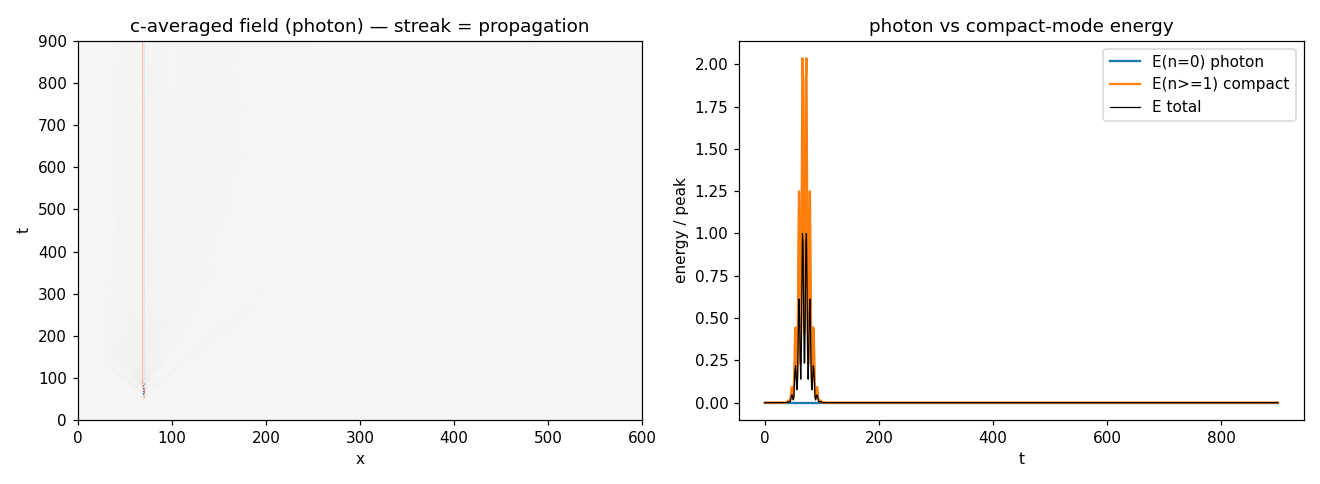
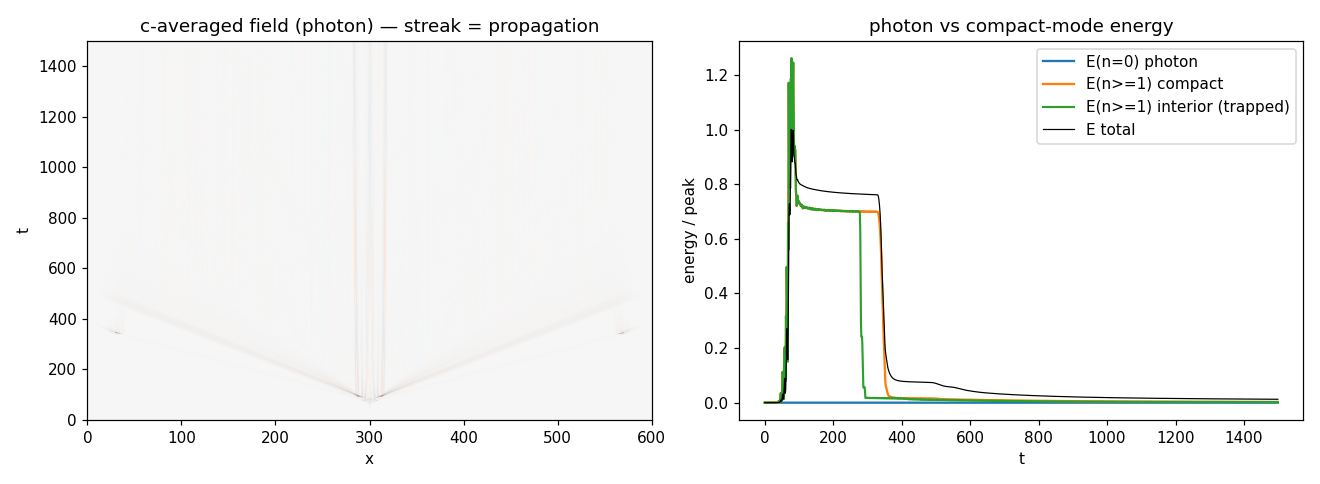
Test various configurations

diff --git a/projects/grid-saturation/scripts/cylinder.py b/projects/grid-saturation/scripts/cylinder.py
@@ -123,7 +123,16 @@ def run(args):
     ac_x_last = np.zeros(nx)
     for t in range(args.steps):
         T = inn.sum(axis=0)
-        out = (2.0 / N) * T[None, :, :] - inn         # scatter, all dirs
+        if args.focus > 0.0:
+            # FOCUSING nonlinearity (opposite sign to clip): high-intensity nodes
+            # transmit LESS (reflect more), so energy piles up locally -- Kerr-like
+            # self-trapping. beta < 2/N is not exactly orthogonal, so energy is not
+            # perfectly conserved; the conservation-drift diagnostic tracks it.
+            rho = np.sum(inn ** 2, axis=0)            # [Nx,Nc] node intensity
+            beta = (2.0 / N) * np.clip(1.0 - args.focus * rho, 0.0, 1.0)
+            out = beta[None, :, :] * T[None, :, :] - inn
+        else:
+            out = (2.0 / N) * T[None, :, :] - inn     # scatter, all dirs
         out, dl = saturate(out, args.sat, args.bound, args.quantize)
         lost += dl
         inn = propagate(out)
@@ -135,9 +144,11 @@ def run(args):
             inn[0, xL, :] += s * cprof                 # +x photon from left
         if args.scn == "headon":
             inn[1, xR, :] += s * cprof                 # -x photon from right
-        if args.scn == "winding":                      # n=1 test excitation
+        if args.scn == "winding":                      # n=1 compact mode AT REST
+            xcen = nx // 2                             # in the interior
             prof = np.cos(2 * np.pi * np.arange(nc) / nc)
-            inn[0, xL, :] += s * prof
+            inn[0, xcen, :] += s * prof                # equal +x and -x
+            inn[1, xcen, :] += s * prof                # => zero net x-momentum
         inn *= spg                                     # absorb at x-ends
 
         e0, e1, U, ac_x = mode_energy(inn)
@@ -183,6 +194,8 @@ def main():
     p.add_argument("--cseed", type=float, default=0.0,
                    help="c-symmetry-breaking seed on the injected photons (0 = perfectly c-uniform). "
                         "NOTE: ineffective -- n>=1 seed is gapped and stays at the source; use --zpe.")
+    p.add_argument("--focus", type=float, default=0.0,
+                   help="focusing nonlinearity strength: high-intensity nodes reflect more (Kerr self-trapping). Diagnostic: does the RIGHT-sign nonlinearity trap?")
     p.add_argument("--zpe", type=float, default=0.0,
                    help="vacuum-noise amplitude seeded on every edge at t=0 (physical symmetry-breaking, present at the collision)")
     p.add_argument("--seed", type=int, default=0, help="RNG seed for --zpe (reproducibility)")

diff --git a/projects/grid-saturation/work/results-m1-m2.md b/projects/grid-saturation/work/results-m1-m2.md
@@ -84,18 +84,160 @@ the runs actually established, in order of how they corrected each other:
   c-circumference (nc), amplitude, and pulse shape jointly — a wider space.
 - `--quantize` (discrete levels as the symmetry-breaker / trap) is untested.
 
-## Next steps
+## M2·A — the trap test: can a compact mode self-bind? **No — the bound is defocusing**
 
-1. **Directly excite an n≥1 mode at high amplitude** (the `winding` scenario)
-   and ask the simpler precursor question: under saturation, is a compact mode
-   **stable as a particle**, and does it stay put? (Tests the *trap* before the
-   *pump*.)
-2. **Build a pump:** a saturation response that couples n=0 → n≥1 **coherently**
-   — e.g. a **storage/temporal** node (release phase-locked to the compact
-   eigenmode), or an explicit **node-state mode-coupling** term. Re-run the
-   control-differenced collision.
-3. **Widen the resonance search:** sweep nc and amplitude jointly, not just ω.
-4. **Quantization as trap:** run `--quantize 2` (±1) and larger — does
-   discreteness itself pin energy into a compact level?
-5. Only if a pump is found: **momentum & pair check** (zero net x-momentum;
-   ±winding = particle/antiparticle).
+Before building a *pump*, test the *trap*: excite an n≥1 compact mode **at rest**
+(injected at domain center on equal ±x edges, zero net x-momentum) and ask
+whether it survives as a stable, localized object. Findings:
+
+1. **Linear: a localized compact mode disperses and radiates away** — retained
+   **0.0%** of peak (final E(n≥1) → machine zero) at every amplitude, though its
+   *center* stays put (speed 0). This is textbook **KK dispersion**: a localized
+   massive mode is a superposition of x-momenta with different velocities, so the
+   wavepacket **spreads**. A linear massive field has no stable localized state.
+   *(A stable particle must therefore be a **soliton** — a nonlinearly
+   self-trapped mode where the nonlinearity balances dispersion.)*
+
+2. **Saturation does not make a soliton — it makes dispersion worse.** With
+   clip/spillover, a small residual (~2%) survives localized exactly at center —
+   more than linear — hinting at weak self-trapping. But sweeping the saturation
+   depth (amplitude 1 → 32 at fixed bound) the retained fraction **peaks at ~2%
+   then falls to 0%**, the **opposite** of a soliton (which would rise and
+   converge). Longer runs confirm the residual is a **slowly-decaying transient**
+   (final E(n≥1): 23.6 → 12.5 → 11.0 → 10.4 over 600 → 3600 steps), not a
+   plateau.
+
+3. **Why:** a saturating / clipping bound **flattens peaks** — it is a
+   **defocusing** nonlinearity, the *wrong sign* to make a bright soliton
+   (which needs a *focusing*, peak-*enhancing* nonlinearity). Deeper saturation
+   spreads the mode faster, so retention drops with amplitude. This is robust and
+   general — not an artifact of the excitation choice.
+
+### What this means (non-dogmatically)
+
+- **The value-bound saturation cannot bind a compact mode into a particle by
+  self-focusing.** It is defocusing. This is a real structural result, not a
+  tuning miss — and it fits the [grid-gravity](../../grid-gravity/) lesson that
+  the *value*-bound is the wrong flavour for long-range binding.
+- **The indicated path is topological, not amplitude-focused.** The standard way
+  to get a stable localized mode without focusing is a **topological soliton** —
+  a **winding** of a *phase* that cannot unwind continuously. That is exactly the
+  framework's own **charge = winding** ([metric-charge](../../metric-charge/))
+  and the **ℵ-line as a compact phase (U(1))**. A particle is a *phase winding*,
+  topologically protected — not a self-focused energy blob.
+- **The current sim can't test that yet:** its compact dimension carries a **real
+  amplitude harmonic** (cos(2πk/nc)), which has **no winding number** and no
+  topological protection. Pair production (M2) is likewise a *winding-number
+  ±1 creation* event — also invisible to a real scalar field. **Both the trap and
+  the pump need the compact field to carry a genuine phase.**
+- Saturation's role is thereby **narrowed but not eliminated**: it plausibly
+  supplies **quantization** (the bound → integer occupation) and the *nonlinear
+  event* that flips winding number, while **topology supplies the binding**.
+
+## M2·B — a second candidate: containment by *discreteness* (probe inconclusive)
+
+A distinct binding mechanism (user hypothesis, and the most GRID-native):
+dispersion is *fractional* leakage — each tick a little energy dribbles to
+neighbours. If a quantum is an **indivisible '1'** on an edge, the sub-unit
+dribble is *forbidden*; the quantum is trapped until it can leave **as a whole
+unit, all at once**. This is the lattice-physics of **discrete breathers /
+Peierls–Nabarro pinning** — discreteness pins localized modes the continuum
+disperses — and it needs **no phase field**, unlike the topological route.
+
+**Crucial fork inside it:** it requires **hard-indivisible** units. A
+**sigma-delta / dithered** discrete node (carry the fractional remainder, emit
+whole units) *recovers the continuum in the average* — so it would recover
+**dispersion** and **not** trap. The hypothesis lives specifically in the
+hard-indivisible (non-remainder-carrying) substrate.
+
+**Probe with the crude `--quantize` (hard rounding to {−1,0,+1}): inconclusive
+— it breaks the dynamics.** The compact mode showed 67% stable retention (vs 0%
+continuous), *perfectly* stable across 800–5000 steps with all loss taken once
+during settling — which *looked* like a confirmation. **But the control kills
+it:** under the same quantization a **photon also freezes** (speed 0.62 → 0) and
+its energy blows up (a −900 "loss" = runaway). So the quantization freezes the
+*whole lattice*, not selectively the particle — no selective containment was
+shown. Crude rounding is **non-conserving** and fights the fractional-output
+scatter, destroying coherent propagation for everything.
+
+**What this establishes:** the hypothesis is **untested, not refuted** — and the
+exact construction it needs is now clear: an **integer / whole-unit,
+energy-conserving scatter** where **photons still propagate as coherent
+unit-packets** while **fractional leakage is forbidden** so compact modes stay
+put. That is a genuinely *different* update rule from `(2/N)J−I` + rounding
+(which produces half-integers): a **lattice-gas-style** conservative discrete
+collision, or grid-quantization's **bit-conserving whole-unit transport**. The
+decisive test is the **selective-containment control**: photon propagates *and*
+particle traps, under one conserving discrete rule.
+
+## M2·C — the focusing diagnostic, and a tension in "integer edges"
+
+**Focusing diagnostic (does the *right-sign* nonlinearity trap here?): weak.**
+Added `--focus` (high-intensity nodes reflect more → Kerr self-trapping, the
+opposite sign to clip). Retention peaks at ~1.8% (focus 0.05–0.1), no robust
+breather, and it goes non-conserving (energy blow-up) by focus 0.4. So **soft**
+nonlinearities of *either* sign (clip, spillover, Kerr focus) all give the same
+~2% marginal residual — the lattice's **linear dispersion dominates** at these
+scales. Trapping would need a **strong/singular** nonlinearity — i.e. exactly
+the **hard-discrete** regime, not a soft term.
+
+**But strict integer edges are in tension with the Maxwell scatter.** The
+equal-impedance scatter `out_d = (2/N)T − in_d` is the thing that *gives
+Maxwell*, and for N=4 it is `0.5·T − in_d`: with integer inputs the output is
+**half-integer whenever T is odd**. So the impedance scatter **does not preserve
+integer edges**. More generally, the only *orthogonal* (energy-conserving)
+**integer** matrices are **signed permutations** — and `(2/N)J − I` is not one
+(it has fractional entries). Therefore:
+
+- **Rounding** the impedance scatter to integers is **non-conserving** — exactly
+  what broke the `--quantize` probe (froze the lattice, energy blew up).
+- A **sigma-delta** integer node (carry the remainder) is faithful to the
+  continuum *on average* → it **recovers dispersion** → does **not** trap.
+- A genuinely **integer-conservative** rule (signed-permutation / **lattice-gas**
+  collision) exists — but it is a **different dynamics** from the impedance
+  scatter (ballistic transport, not partial transmission).
+
+**So "the Maxwell scatter, but with indivisible ±1 edges" is not a consistent
+object.** Indivisibility and the impedance scatter pull apart. This is a real
+constraint, and it reshapes the options rather than killing the intuition.
+
+## Next steps — a fork (needs a steer)
+
+The M2·A/B/C results converge on a genuine modeling decision:
+
+- **(A) Lattice-gas / indivisible-particle substrate.** Drop partial
+  transmission for a conservative integer collision. Indivisible particles;
+  a **net-circulating (winding) c-cluster has no x-momentum and no head-on
+  pairs to convert it to x-movers → it should stay trapped in x**, while
+  x-streams (photons) propagate. Directly tests indivisibility — but it is a
+  *different substrate* than the impedance scatter that gives Maxwell.
+- **(B) Instantiation split (grid-quantization's own picture).** Keep the
+  **continuous** impedance scatter (waves disperse and *interfere*, as they
+  must), and put the discreteness in a **separate whole-quantum instantiation**
+  overlay — the particle is the **indivisible click**, not a trapped blob. This
+  dissolves the "trap a wavepacket" problem (M2·A) and reconnects to **M3/M4**
+  (single instantiation; Born rule) and the pilot-wave structure already in the
+  README. Indivisibility lives in *instantiation*, not in the field values.
+- **(C) Topology.** Phase-winding (U(1) ℵ-line) binding — the M2·A fallback.
+
+## Older next-step list (subsumed by the fork above)
+
+Two candidate binding mechanisms are now on the table — **discreteness** (M2·B)
+and **topology** (M2·A). Discreteness is more GRID-native and needs no new field,
+so test it first.
+
+1. **Build an integer/whole-unit, energy-conserving discrete scatter** (a
+   lattice-gas-style conservative collision, or bit-conserving whole-unit
+   transport — *not* `(2/N)J−I` + rounding, which is non-conserving). Run the
+   **selective-containment control**: does a **photon still propagate as a
+   coherent unit-packet** while a **compact mode stays trapped**? If both hold
+   under one conserving rule, discreteness *is* the containment mechanism — and
+   it unifies with grid-quantization's substrate.
+2. **If discreteness gives no selective containment:** give the compact dimension
+   a genuine **phase** (complex / U(1) ℵ-line) and test whether a **unit
+   phase-winding** localized in x is **topologically stable** (the M2·A route).
+3. **Redefine M2 accordingly:** pair production = a whole-quantum / ±1-winding
+   creation event at a saturation collision (net conserved). Test whether the
+   nonlinearity can create the trapped pair.
+4. Only once a stable trapped particle exists: **momentum & pair check** (zero
+   net x-momentum; ±winding = particle/antiparticle).

diff --git a/projects/grid-saturation/work/binding-evaluation.md b/projects/grid-saturation/work/binding-evaluation.md
@@ -1,0 +1,92 @@
+# Evaluating particle-binding mechanisms — a gate
+
+The trap tests (M2·A/B/C in [results-m1-m2.md](results-m1-m2.md)) left **three
+candidate mechanisms** for how GRID makes a bound particle, and no obvious way to
+choose. Rather than pick, we set a **gate**: criteria any mechanism *must*
+satisfy, each grounded in physics we already trust, each with a test. Then we
+score the candidates honestly — including "unknown." This mirrors the shared gate
+used in [grid-gravity](../../grid-gravity/).
+
+## The gate — what a GRID binding mechanism must deliver
+
+| # | Criterion | Why it is required | How to test |
+|---|---|---|---|
+| **G1** | **Maxwell preserved** | The one *confirmed* GRID result: massless, freely-propagating photons in the linear regime. Non-negotiable. | Photon still propagates at the lattice c; low-energy limit = sim-maxwell. |
+| **G2** | **Single-quantum interference** | Double-slit fringes built from *individual* events — the defining quantum behaviour. Needs a genuine **phase**. | Two-slit fringe accumulates from many single instantiations. |
+| **G3** | **Selective containment + persistence** | A particle stays localized and *persists*; a photon does not. | Trap test: localized object, retention→high over long time; photon control propagates. |
+| **G4** | **Whole-quantum detection** | One quantum → one click (anticorrelation, Grangier–Aspect). Energy is a conserved integer count. | Single quantum → single instantiation; no multi-click. |
+| **G5** | **Charge / pair structure** | Creation conserves charge; matter/antimatter as a ± label; a pair from photons nets to vacuum. | Pair creation nets zero; two species. |
+| **G6** | **Mass / spectrum** | The bound object has a rest energy (gap), ideally a spectrum. | Rest-frame energy; mode spectrum vs winding/quantum number. |
+| **G7** | **GRID-native (parsimony)** | Follows from existing primitives (nodes/edges/impedance scatter/compact phase) without importing foreign machinery. | Judgment: count new assumptions. |
+| **G8** | **Cheaply falsifiable** | Can be simulated and killed at low cost. | Judgment: size of the build. |
+
+## The candidates
+
+- **I — Instantiation split.** Keep the continuous impedance scatter (waves
+  disperse *and* interfere); put discreteness in a separate **whole-quantum
+  instantiation** overlay. The particle is the **click** on a guide wave.
+- **II — Lattice-gas.** Replace partial transmission with a conservative
+  **integer/boolean collision** rule. Indivisible particles; winding clusters
+  trapped by having no x-momentum.
+- **III — Topological winding.** Give the compact dimension a genuine **U(1)
+  phase (ℵ-line)**; the particle is a **phase winding**, stable by topology.
+
+## Scoring (honest first pass — analysis, not yet simulated)
+
+✓✓ strong · ✓ ok · ~ partial/unclear · ✗ fails
+
+| | G1 Maxwell | G2 interfere | G3 contain | G4 whole-click | G5 charge/pair | G6 mass | G7 native | G8 cheap |
+|---|---|---|---|---|---|---|---|---|
+| **I** instantiation | ✓✓ | ✓✓ | ~ (a click is an *event*, not a persistent particle) | ✓✓ | ~ (punts charge to the wave) | ~ (mass from KK wave, not from instantiation) | ✓✓ | ✓ |
+| **II** lattice-gas | ✗ (waves only in the continuum *average* → dispersion returns) | ✗ (classical gas: no single-particle self-interference) | ✓ | ✓✓ | ✓ (winding sign) | ✓ (circulation energy) | ~ (abandons the impedance scatter) | ~ |
+| **III** topological | ✓ | ✓✓ (phase field is interference's natural home) | ✓✓ (soliton stable *without* focusing — protected) | ~ (topology quantizes **charge**, an integer — but not **energy**/clicks) | ✓✓ (winding ± = matter/antimatter; cleanest) | ✓ (winding energy = mass; spectrum from n) | ✓ (framework already: ℵ-line=phase, charge=winding) | ✗ (biggest build) |
+
+## What the gate reveals: the options are complementary, not a bake-off
+
+- **III covers G1, G2, G3, G5, G6** and gives integer **charge** quantization
+  (winding number). Its one gap is **G4** — topology quantizes charge, not
+  energy, so it does not by itself give whole-quantum *clicks*.
+- **I covers exactly that gap: G4** (whole-quantum instantiation) plus the **Born
+  rule**, on top of a wave that already satisfies G1/G2.
+- **I + III together cover the entire gate:** III **binds** the persistent,
+  interfering, charged, massive particle; I supplies the **whole-quantum
+  detection** on top. They are not rivals — they are the *binding* half and the
+  *measurement* half of one story.
+- **II is dominated.** Its unique offering — field-level indivisibility — **fails
+  G1 and G2** (Maxwell + single-particle interference), the very things I and III
+  preserve. Its other strengths (containment, charge, mass) III already delivers
+  without abandoning the impedance scatter. So II can be set aside — *unless* the
+  winding-stability test for III fails, in which case II's "winding cluster has no
+  x-momentum" mechanism becomes a fallback worth revisiting.
+
+This also **corrects the earlier lean** toward I alone: the gate shows I is a
+*detection* theory, not a *binding* theory — it needs III (or something) to say
+what a persistent particle **is**.
+
+## The decisive, cheap test before any big build
+
+The whole I+III conclusion rests on **one unverified assumption**: that a
+**topological winding is actually stable on the GRID impedance-scatter lattice**
+(G3 for III). Everything else in III's column is standard phase-field physics;
+this is the GRID-specific risk. So the next experiment is the **minimum** that
+tests it:
+
+1. **Minimal 2-component (phase) field on the existing cylinder.** Carry a
+   complex/2-component amplitude per edge instead of a real one; the impedance
+   scatter acts on each component. Cheapest possible U(1).
+2. **Winding-stability test (G3):** initialize a **unit phase-winding** localized
+   in x. Does it **stay localized and persist** (linear *and* with the bound), or
+   disperse like the real-scalar mode did?
+3. **Photon control (G1):** the n=0 mode still propagates at c.
+4. **Interference smoke test (G2):** two phase-coherent sources still beat/fringe.
+
+If the winding is stable → I+III is the path, and the instantiation overlay (I)
+comes next for G4/Born. If the winding disperses too → topology alone is not
+enough on this lattice, and II (indivisible-particle dynamics) returns as the
+fallback for G3. Either way the gate, not a guess, decides.
+
+## Status
+
+Gate defined; first-pass scoring done (analysis). **II set aside (dominated).**
+Next: the minimal phase-field **winding-stability** test — the cheap,
+GRID-specific make-or-break for the I+III path.

diff --git a/projects/grid-saturation/README.md b/projects/grid-saturation/README.md
@@ -11,15 +11,24 @@ rule**. Tested on a minimal **1D-space + 1D-compact (x, c) cylinder**.
 verified** — photons propagate in x, pass through each other, the compact
 sector is decoupled (E(n≥1)=0), and the winding mode is massive/gapped, all as
 KK predicts (first dynamical test of this in forma). **M2 negative-so-far, not
-refuted** — an earlier "spillover traps +0.7%" reading was an *artifact* (a
-c-seed on the beam is gapped and never reaches the collision). With a physical
-**vacuum seed** at the collision, saturation (clip *or* spillover) pumps **no**
-persistent compact mode above the linear control, at any tested frequency: the
-n≥1 sector *exists and is stable* (a particle could live there), but clip/
-spillover give **no coherent pump** — the linear scatter re-mixes their
-redirection away each tick. The thesis stays open; the missing piece (a pump)
-is named. Full account in [work/results-m1-m2.md](work/results-m1-m2.md).
-Computational-first: build the minimal sim and observe, then return to math.
+refuted, and it redirected the project.** Two results: (1) with a physical
+**vacuum seed**, saturation (clip *or* spillover) pumps **no** persistent
+compact mode above the linear control at any frequency (an earlier "+0.7%
+signal" was a source-seed artifact — the seed is gapped and never reaches the
+collision); (2) the **trap test** (excite a compact mode directly, at rest)
+shows a saturating value-bound is a **defocusing** nonlinearity — it flattens
+peaks, so retention *falls* with saturation depth, the opposite of a soliton.
+**So the value-bound cannot bind a particle by self-focusing.** Two candidate
+binding mechanisms remain, both untested: **(i) discreteness** — an indivisible
+'1' can't leak fractionally, so a quantum is trapped until it escapes whole
+(Peierls–Nabarro pinning; most GRID-native, needs no new field); and **(ii)
+topology** — a particle as a **phase winding** of the ℵ-line (*charge =
+winding*). A crude `--quantize` probe of (i) was inconclusive (it freezes the
+whole lattice — a photon stops propagating too), showing the real construction
+needed: an **integer, energy-conserving scatter** where photons still propagate
+but fractional leakage is forbidden. Full account in
+[work/results-m1-m2.md](work/results-m1-m2.md). Computational-first: build the
+minimal sim and observe, then return to math.
 
 ---
 
@@ -204,17 +213,22 @@ them in**, by how sharply each can confirm or kill the thesis. It reflects what
 experiment A taught: the compact sector is a *stable place a particle could
 live*, but no *pump* into it has been found yet.
 
-**Tier 1 — make-or-break (do next).**
-- **A. The trap, then the pump.** *(trap)* Directly excite an n≥1 mode at high
-  amplitude and ask whether saturation keeps it **stable and localized** (a
-  particle) — the simpler precursor. *(pump)* Then build a saturation response
-  that couples n=0 → n≥1 **coherently** (storage/temporal release phase-locked
-  to the compact eigenmode, or an explicit node-state mode-coupling term), and
-  re-run the control-differenced head-on collision. Clip/spillover already shown
-  *not* to pump. This is the fork the whole project turns on.
+**Tier 1 — make-or-break (do next).** *(Trap test done: a value-bound is
+defocusing, so it cannot self-focus a soliton — [work/results-m1-m2.md](work/results-m1-m2.md)
+§M2·A. Two binding candidates remain; test the GRID-native one first.)*
+- **A. Discreteness as containment (the integer-conserving scatter).** Build a
+  **whole-unit, energy-conserving** discrete scatter (lattice-gas-style, *not*
+  `(2/N)J−I` + rounding) and run the **selective-containment control**: does a
+  **photon still propagate** while a **compact mode stays trapped**? If yes,
+  discreteness binds the particle *and* unifies with grid-quantization. (Crude
+  `--quantize` was inconclusive — it freezes everything; see §M2·B.) **Fallback
+  if it fails:** give the compact dimension a **phase** (U(1) ℵ-line) and test a
+  **topologically stable unit winding** (§M2·A route).
 - **B. Does the bound actually *quantize*?** Inject sub-quantum energy (stays
   diffuse, no click?) vs a full quantum (snaps coherently?). The foundational
   "is this substrate even quantum" check; validates the premise behind M2–M4.
+  Best done *with* the conserving discrete scatter from A (the crude round is
+  non-conserving).
 
 **Tier 2 — the prizes (downstream of Tier 1).**
 - **C. Single-quantum instantiation / collapse (M3)** — does energy
@@ -231,8 +245,20 @@ live*, but no *pump* into it has been found yet.
 
 ## Next step
 
-**A (the trap):** run the `winding` scenario at high amplitude under saturation
-and measure whether the compact mode stays stable and localized — testing the
-*trap* before investing in a *pump*. If the mode is stable, build the coherent
-pump (storage/mode-coupling) and re-run the control-differenced collision. See
-[work/results-m1-m2.md](work/results-m1-m2.md) §Next steps for the detail.
+Rather than guess among the three binding candidates (instantiation split,
+lattice-gas, topological winding), a **gate** was set — criteria any mechanism
+must satisfy — and the candidates scored against it:
+[work/binding-evaluation.md](work/binding-evaluation.md). The gate's verdict:
+the options are **complementary, not rivals** — **topological winding (III)
+binds** the persistent, interfering, charged, massive particle, and the
+**instantiation split (I) supplies whole-quantum detection** on top; together
+they cover the whole gate. The **lattice-gas (II) is dominated** (it fails
+Maxwell + single-particle interference) and is set aside as a fallback.
+
+The whole I+III path rests on **one unverified, GRID-specific assumption**: that
+a **topological winding is stable on the impedance-scatter lattice**. So the next
+step is the *minimum* that tests it — a **minimal 2-component (phase) field** on
+the current cylinder, then the **winding-stability test** (a unit phase-winding:
+does it persist and stay localized, while the n=0 photon still propagates and
+interferes?). If stable → build the instantiation overlay next; if it disperses →
+II returns as fallback. The gate, not a guess, decides.
